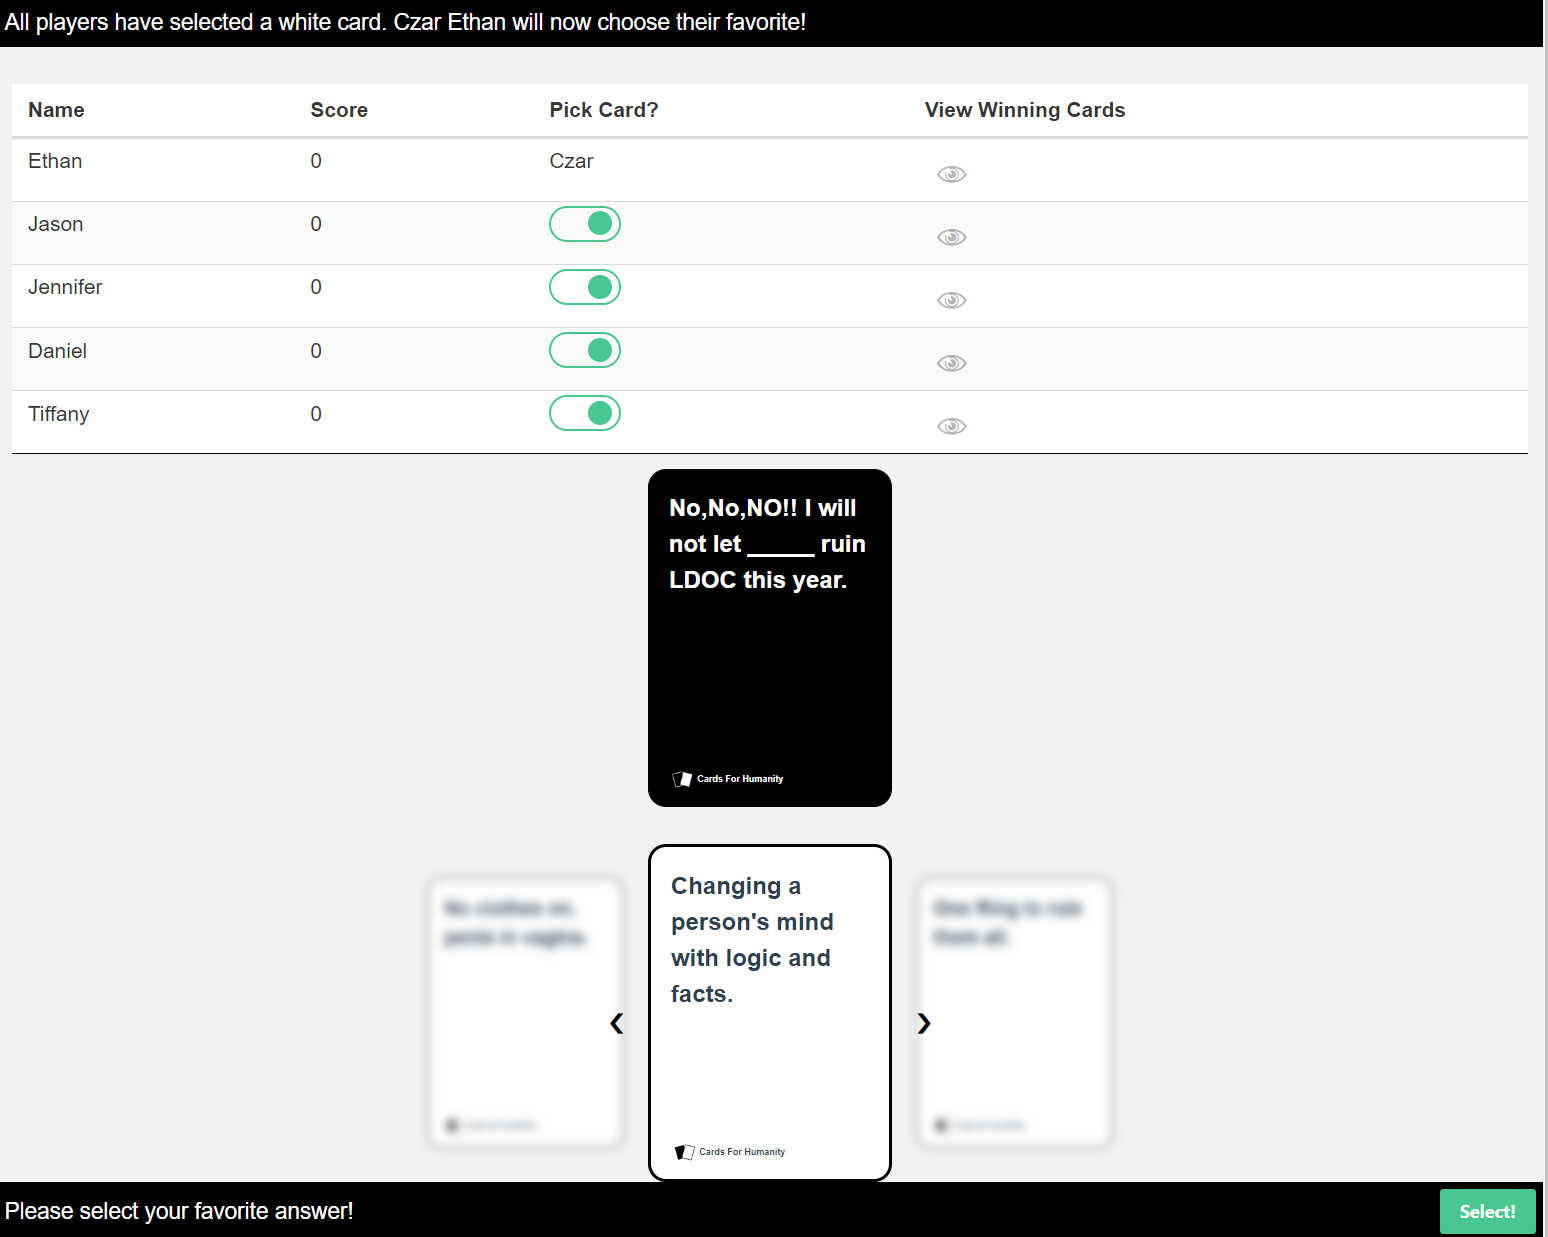
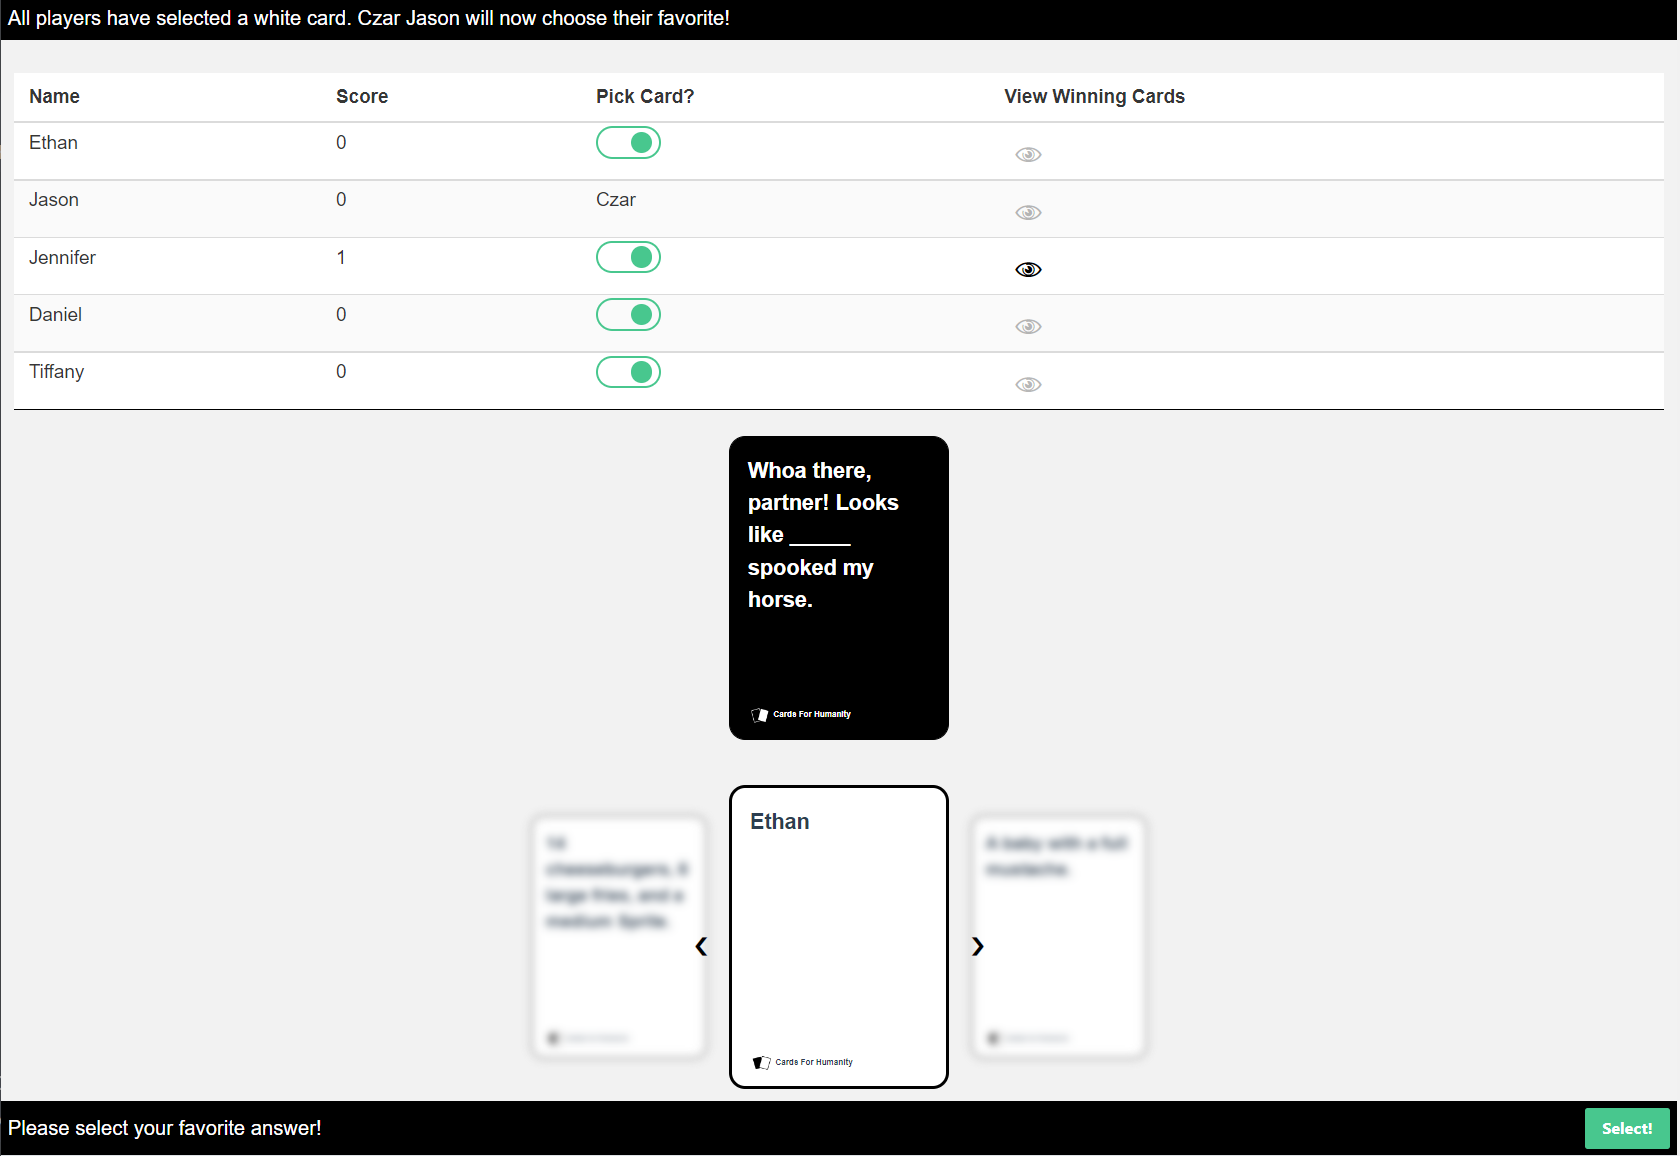
Friendly pack

diff --git a/server/FriendlyPack.js b/server/FriendlyPack.js
@@ -1,6 +1,5 @@
 module.exports = {
   blackCards: [
-    "Alright, which one of you little terds is responsible for _____?!",
     "At school, I'm just Mandy. But at summer camp, I'm \"_____ Mandy.\"",
     "Beep beep! _____ coming through!",
     "Before I attend your sleepover, I must inform you: I prefer _____.",
@@ -50,16 +49,12 @@ module.exports = {
     "Shut up, Becky! At least I'm not _____.",
     "Thanks for watching! IF you want to seee more vids of _____, smash that subscribe.",
     "The easiest way to tell me and my twin apart is that I have a freckle on my cheek and she's _____.",
-    "The warm August air was filled with change. Things were different, for Emily was now _____.",
     "There's nothing better than a peanut butter and _____ sandwich.",
     "They call me 'Mr._____.'",
-    "This is gonna be the best sleepover ever. Once Mom and Dad go to bed, it's time for _____!",
     "Time to put on my favorite t-shirt, the one that says 'I heart _____.'",
-    "Today I pooped out _____",
-    "Today we honor St. Mungo, the patron saint of _____.",
     "We're off to see the wizard, the wonderful wizard of _____!",
     "Well, look at what we have here! A big fancy man walkin' like he's _____.",
-    "What killed Old Jim?",
+    "Ethan is so good at _____!",
     "When I pooped, what came out?",
     "Where in the world is _____?",
     "Whoa there, partner! Looks like _____ spooked my horse.",
@@ -71,7 +66,6 @@ module.exports = {
     "A baby with a full mustache.",
     "A beard longer than 12 inches.",
     "A big sad dragon with no friends.",
-    "A big, and I mean BIG turle.",
     "A bird pooping on the president's head.",
     "A black hole.",
     "A bunch of dead squirrels on a trampoline.",
@@ -81,7 +75,6 @@ module.exports = {
     "A dead body.",
     "A dead whale.",
     "A Democrat.",
-    "A dollw that pees real pee!",
     "A fake kid made out of wood.",
     "A flamethrower.",
     "A hot air balloon powered by fart gas.",
@@ -92,7 +85,6 @@ module.exports = {
     "A long, long snake.",
     "A naked lady in a painting.",
     "A nice, warm glass of pee.",
-    "A poop as big as mom.",
     "A pregnant person.",
     "A Republican.",
     "A scoop of tuna.",
@@ -102,19 +94,14 @@ module.exports = {
     "A whole thing of cottage cheese.",
     "A wise, old woman with no teeth and cloudy eyes.",
     "Abraham Lincoln.",
-    "An invisible giant who takes giant, visible poops.",
     "An old, dirty cat with bad breath.",
     "An order of mozzarella sticks.",
     "An owl that hates you.",
     "Ariana Grande.",
-    "Aunt Linda.",
     "Baby Yoda.",
     "Bad parenting.",
-    "Balls. Big balls. Really big balls.",
-    "Barf.",
     "Barfing into a popcorn bucket.",
     "Batman.",
-    "Beautiful grandma.",
     "Becoming taller and stronger than Father.",
     "Becoming the president.",
     "Beer.",
@@ -125,56 +112,37 @@ module.exports = {
     "Being super serious right now.",
     "Bench pressing a horse.",
     "Beyonce's Superbowl performance.",
-    "Big butt cheeks filled with poop.",
-    "Big Mississippi boys.",
     "Big, juicy pimples.",
     "Big, slappy hands.",
     "Biting a rich person.",
     "Blasting farts in the powder room.",
-    "Blasting my math teacher into the sun.",
     "Bleeding.",
     "Blossoming into a beautiful young man.",
-    "Blowing up the Moon.",
-    "Boobies.",
-    "Boogie-boarding down Huka Falls",
     "Boys.",
     "Building a nuclear bunker at my parents' house.",
-    "BULBASAUR.",
     "Burning books.",
     "Bursting into flames.",
-    "Butt hair.",
-    "Butt surgery.",
-    "Butthole.",
-    "Butts of all shapes and sizes.",
     "Cat pee.",
     "Cavities.",
     "Cheeto fingers.",
     "Chest hair.",
     "Chinese campaign clothing.",
     "Chugging a lava lamp.",
-    "Chungo, the talking gorilla.",
     "Chunks.",
     "Cigarettes.",
     "Climate change.",
-    "Climbing into a cow's butt.",
     "Coffee.",
-    "Comign back from the dead.",
-    "Completely drunk organizers.",
+    "Coming back from the dead.",
     "Covering myself with ketchup and mustard because I am a hot dog.",
-    "Crab-walking from the toilet to get more toilet paper.",
     "Crying in the bathroom.",
-    "Dad's famous poops.",
     "Dad's meatloaf.",
-    "Dancing with my son.",
     "Debating cartoon logic",
     "Diarrhea.",
     "Doing karate.",
-    "Dreaming about boys.",
     "Drinkig a whole bottle of ranch.",
     "Drinking gasoline to see what it tastes like.",
     "Drinking out of the toilet and eating rubbish.",
     "Dying of old age.",
-    "Eating a baby.",
     "Eating a whole roll of toilet paper.",
     "Eating toenail clippings.",
     "Elegant party hats.",
@@ -183,15 +151,11 @@ module.exports = {
     "Failure.",
     "Fake news.",
     "Falling into a pit of waffles.",
-    "Famous peanut scientist George Washington Carver.",
     "Farting a lot today.",
-    "Farting Antelopes",
     "Farting, barfing, and passing out.",
     "Fat stacks of cash.",
     "Father's forbidden chocolates.",
     "Feasting upon human flesh.",
-    "Feminist men.",
-    "Filling my butt with spaghetti.",
     "Finger teeth.",
     "Fire farts.",
     "Flamin' Hot Cheetos.",
@@ -199,31 +163,21 @@ module.exports = {
     "Flushing myself down the toilet.",
     "Forgetting to put on underwear.",
     "Fortnite.",
-    "Freeing a fart from its butt prison.",
     "Garbage.",
     "Getting a girlfriend.",
     "Getting a skull tattoo.",
     "Getting crushed by a piano.",
     "Getting drunk.",
-    "Getting kicked in the nuts.",
     "Getting married.",
-    "Getting my ponytail stuck in my butt.",
-    "Getting naked.",
     "Getting run over by a train.",
     "Getting scalded in the fave with hot beans.",
     "Getting skin cancer after 5 minutes at Takapuna beach",
     "Getting slapped with a fish.",
     "Getting struck in the toilet.",
     "Giggling and farting and slurping milkshakes.",
-    "Girly drinks",
-    "Glen's fabulous body.",
-    "Gluing my butt cheeks together.",
     "Going around sniffing people's armpits.",
     "Going ballistic",
     "Going beast mode.",
-    "Going night night.",
-    "Going to Hobbiton for your hairy foot fetish",
-    "Grandma panties.",
     "Grandpa.",
     "Ham.",
     "Happy Endings.",
@@ -239,16 +193,11 @@ module.exports = {
     "Hot, fresh doodies.",
     "How much wood a woodchuck would chuck if a woodchuck could chuck wood.",
     "Huge pants.",
-    "Huge, hairy men.",
     "Hurting people's feelings.",
     "Idiots.",
     "Illegal drugs.",
     "Jesus's death.",
-    "Johnny Depp, dancing all sexy.",
-    "JoJo Siwa.",
     "Josh.",
-    "Kevin's mom.",
-    "Kisisng mom on the lips.",
     "Knives.",
     "Legs.",
     "Lice.",
@@ -257,102 +206,66 @@ module.exports = {
     "Literally ruining my life.",
     "Living in a pineapple under the sea.",
     "Living in the dumpster.",
-    "Locking Mother in the pantry.",
-    "Making out in a closet.",
-    "Many wolves.",
-    "Martin Luther King Jr.",
     "Mashing a banana into your belly button.",
     "Mayonaise.",
-    "Me, your dad.",
     "Mean people",
-    "Mom's friend, Donna.",
-    "Mom's new haircut.",
     "Most of a horse.",
     "Moving to Ohio.",
     "Mowing the stupid lawn.",
-    "Murdering.",
     "My annoying brother.",
     "My annoying sister.",
     "My big donkey brother.",
-    "My father, who is a walrus.",
     "My future husband.",
     "My girlfriend, who goes to another school.",
     "My sister's stupid boyfriend.",
-    "Naked people.",
     "Never showering.",
-    "Nipples.",
-    "Not wearing trousers.",
     "Nothing. Absolutely nothing.",
     "Nunchucks.",
     "Obama.",
-    "Old Jim's Steamy Butt Sauce.",
     "Old people.",
     "One long hair growing out of a mole.",
     "One tought mama.",
     "One weird lookin' toe.",
     "Only beans.",
-    "Overthrowing the government.",
     "Pee-pee.",
     "Peeing in the cat's litter box.",
-    "Peeing into everyone's mouth.",
     "Peer pressure.",
-    "Person milk.",
     "Pizza.",
     "Playing trumpet for the mayor.",
     "Polka dot underwear",
     "Poo-poo.",
-    "Pooping barf forever.",
     "Pooping on the neighbor's lawn.",
     "Pork.",
     "Poseidon, Lord of the Sea.",
-    "Principal Butthead.",
-    "Pubes held together in a little ponytail holder.",
-    "Punching a guy through a wall.",
-    "Punching everyone.",
     "Putting my brain into the body of a tiger.",
-    "Putting my butt on stuff.",
     "Questioning authority.",
-    "Racism, sexism, and homophobia.",
-    "Rated-R stuff.",
     "Respecting personal boundaries.",
-    "Richi McCaw; the PM we want, but will never deserve",
     "Running away from home.",
     "Running full speed into a wall.",
-    "Sacrificing Uncle Tim.",
+    "Sacrificing Ethan.",
     "Satan.",
-    "Saving up my boogers for ten years and then building the world's largest booger.",
     "Screaming and screaming and never waking up.",
     "Screaming into a can of Pringles.",
-    "Screaming the F-word.",
-    "Seymour Butts.",
     "Sharks.",
-    "Shaving Dad's back.",
     "Shoplifiting.",
     "Shrek.",
     "Shutting up.",
     "SILENCE!",
     "Sitting on a cake.",
     "Sitting on the toilet and going poop.",
-    "Slapping that butt.",
     "Slowly turning into cheese.",
     "Smelling like onions.",
-    "Sniffing a dog's butt.",
     "Social media.",
     "Some freakin' privacy.",
     "Soup.",
     "Space lasers.",
     "Spending my parent's hard-earned money.",
     "Spider-Man.",
-    "Squirty cheese.",
     "Stank breath.",
     "Stealing people's money and going to jail.",
-    "Stuff.",
-    "Stuffing my underwear with pancakes.",
-    "Supreme Court Justice Ruth Bader Ginsburg.",
     "Swords.",
     "Taking a dump in the pool.",
     "Teaching a chicken to kill.",
-    "Teeny, tiny turds.",
     "The baby.",
     "The babysitter.",
     "The beautiful potato.",
@@ -362,42 +275,28 @@ module.exports = {
     "The entire state of Texas.",
     "The first female President of the United States of America.",
     "The garbage man.",
-    "The gluteus maximus.",
-    "the government's secret stockpile of confiscated marijuana",
-    "The huge, stupid moon.",
-    "The middle finger.",
     "The octopus stuck to my face.",
-    "The old man with the rake who lives down the dark and winding road.",
     "The oppressive system of capitalism.",
     "The police.",
     "The president.",
-    "The sweet honking or Karen's bassoon.",
-    "The terrible winter of 1609.",
     "The way grandpa smells.",
-    "The way I feel when I see Kyle.",
+    "The way I feel when I see Ethan.",
     "The wettest fart you ever heard.",
     "The whole family.",
-    "Think, nasty burps.",
     "This goat, who is my friend.",
     "This stupid game.",
     "Thousands of lasagna",
     "Throwing up double peace signs with my besties at Starbucks.",
-    "Tongue kissing.",
     "Tossed salads and scrambled eggs.",
     "Total crap.",
     "Triangles.",
     "Trying to catch that dang raccoon.",
-    "Turning 70 and still being fuckable.",
     "Twig and berries.",
-    "Uncle Bob.",
+    "Uncle Ethan.",
     "Unleashing a hell demon that will destroy our world.",
     "Urban legends",
-    "Using balloons as boobies.",
-    "Using my butt as a microwave.",
     "Volleyball shorts.",
-    "Waterboarding a Muslim.",
     "Whatever dad does at work.",
-    "Wiping my butt.",
     "Your face.",
     "Your mom!",
   ],

diff --git a/server/CardDeck.js b/server/CardDeck.js
@@ -1,4 +1,4 @@
-const cards = require('./ClassicPack.js');
+const cards = require('./FriendlyPack.js');
 const shuffleArray = require("./Utility.js");
 
 // CardDeck contains all cards, black and white

diff --git a/README.md b/README.md
@@ -48,5 +48,8 @@
 + [Vue.js](https://vuejs.org/)
 + [Socket.io](https://socket.io/)
 
+### API
+Card texts are downloaded and parsed from [here](https://crhallberg.com/cah/) 
+
 #### License ⚖
 [MIT](https://en.wikipedia.org/wiki/MIT_License)
